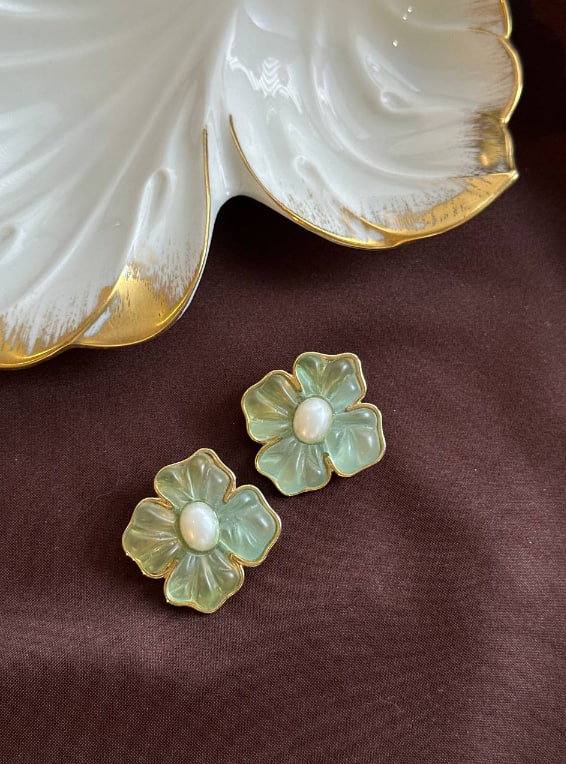
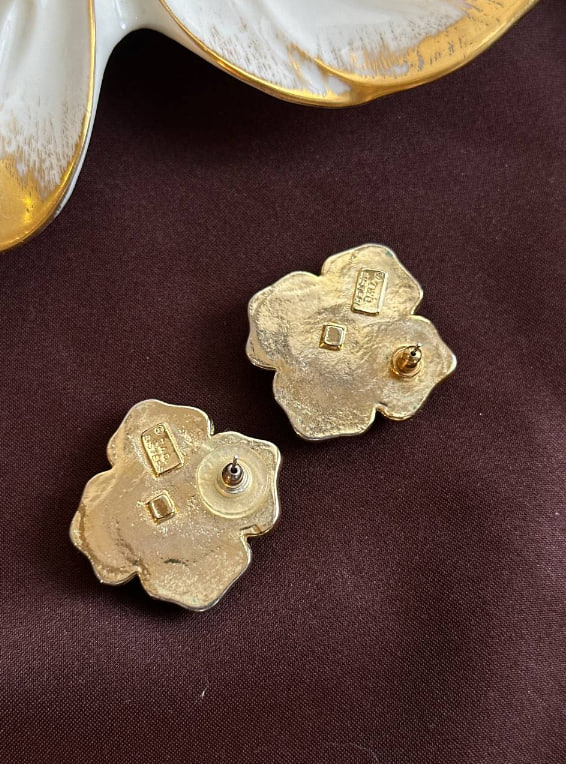
Added status badges

diff --git a/style.css b/style.css
@@ -218,6 +218,8 @@ button:hover{
     display:grid;
     grid-template-columns:repeat(2,1fr);
     gap:15px;
+    animation:fadeProducts .22s ease;
+
 }
 
 .products-grid .card{
@@ -556,9 +558,17 @@ img{
 
     overflow-x:auto;
 
-    padding:10px 0 20px;
+    overflow-y:hidden;
 
-    margin-bottom:15px;
+    padding:8px 0 18px;
+
+    scroll-behavior:smooth;
+
+}
+
+.subcategory-menu::-webkit-scrollbar{
+
+    display:none;
 
 }
 
@@ -570,39 +580,68 @@ img{
 
 .subcategory-btn{
 
-    flex-shrink:0;
+    display:flex;
 
-    padding:10px 18px;
+    justify-content:center;
 
-    border-radius:18px;
+    align-items:center;
+
+    min-width:140px;
+
+    height:42px;
+
+    padding:0 18px;
+
+    border-radius:10px;
 
     background:#630000;
 
-    color:white;
+    color:#e6c98b;
 
-    cursor:pointer;
+    border:2px solid #c9a25b;
 
     font-size:14px;
 
     font-weight:600;
 
+    letter-spacing:.6px;
+
+    cursor:pointer;
+
+    transition:.25s;
+
+    flex-shrink:0;
+
+    user-select:none;
+
+    box-shadow:
+    inset 0 1px 1px rgba(255,255,255,.08),
+    0 2px 6px rgba(0,0,0,.12);
+
 }
 
 .subcategory-btn.active{
 
-    background:linear-gradient(
-        145deg,
-        #d8b46c,
-        #b88b3c
-    );
+    background:#181717;
 
-    color:#4b0000;
+    color:#f2d08a;
 
-    border:2px solid #f6e0a8;
+    border-color:#f2d08a;
+
+}
+
+.subcategory-btn:hover{
+
+    transform:translateY(-2px);
+
+    background:#3a342c;
+
+    border-color:#f2d08a;
+
+    color:#f2d08a;
 
     box-shadow:
-        0 4px 12px rgba(0,0,0,.2),
-        inset 0 1px 1px rgba(255,255,255,.4);
+        0 6px 12px rgba(0,0,0,.18);
 
 }
 
@@ -620,5 +659,31 @@ img{
         #d4af37,
         transparent
     );
+
+}
+
+@keyframes fadeProducts{
+
+    from{
+
+        opacity:0;
+
+        transform:translateY(10px);
+
+    }
+
+    to{
+
+        opacity:1;
+
+        transform:translateY(0);
+
+    }
+
+}
+
+.all-btn{
+
+    background:#8d1b1b;
 
 }

diff --git a/script.js b/script.js
@@ -30,7 +30,7 @@ function showJewelry(subcategory = "ALL") {
 
 <div class="subcategory-menu">
 
-    <div class="subcategory-btn ${subcategory === 'ALL' ? 'active' : ''}"
+    <div class="subcategory-btn all-btn ${subcategory === 'ALL' ? 'active' : ''}"
      onclick="showJewelry('ALL')">
     ALL
 </div>
@@ -126,10 +126,10 @@ function showWatches(brand = "ALL") {
 
 <div class="subcategory-menu">
 
-    <div class="subcategory-btn ${brand === 'ALL' ? 'active' : ''}"
-         onclick="showWatches('ALL')">
-        ALL
-    </div>
+    <div class="subcategory-btn all-btn ${brand === 'ALL' ? 'active' : ''}"
+     onclick="showWatches('ALL')">
+    ALL
+</div>
 
     <div class="subcategory-btn ${brand === 'OMEGA' ? 'active' : ''}"
          onclick="showWatches('OMEGA')">